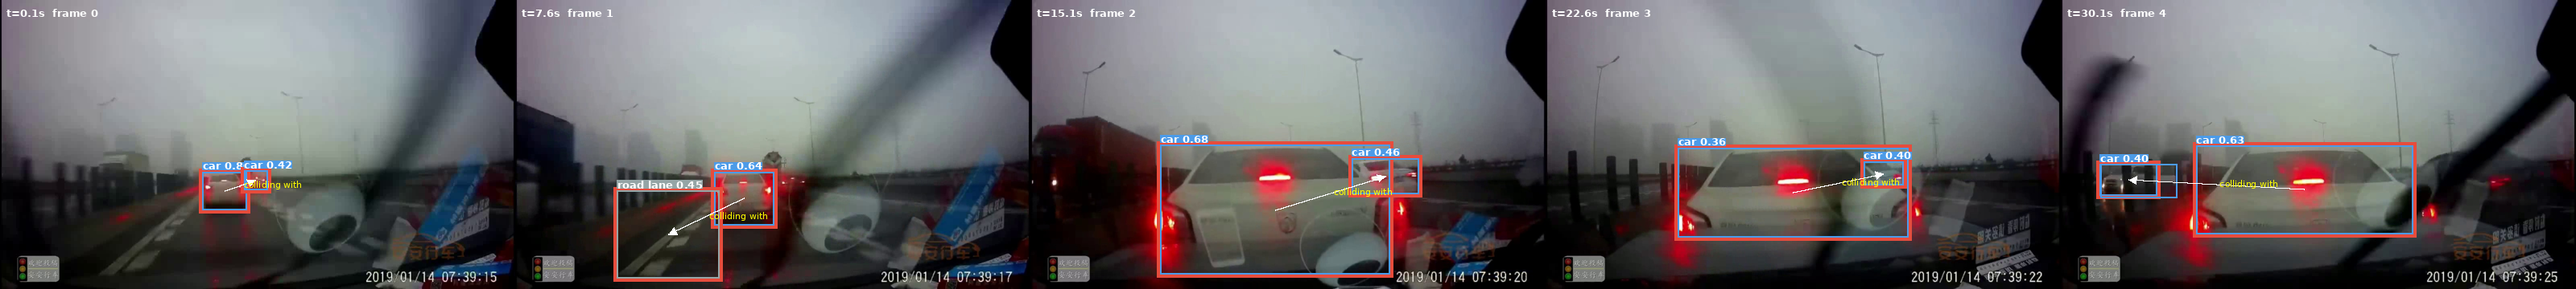
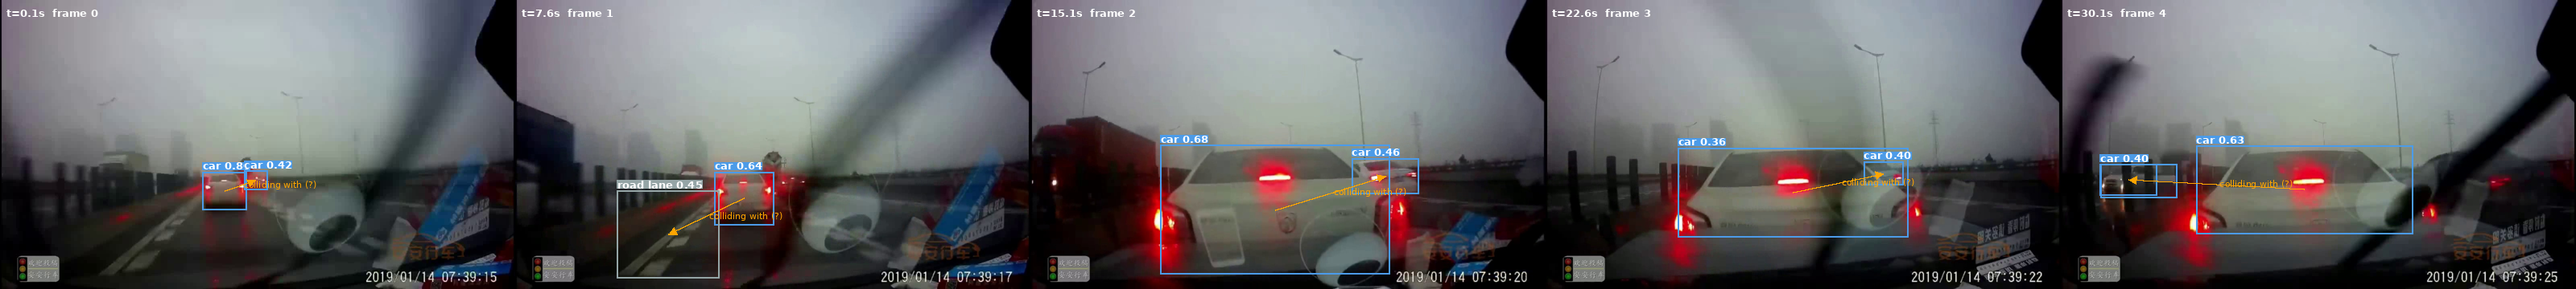
deleting notes

diff --git a/MEETING_PREP_THURSDAY.md b/MEETING_PREP_THURSDAY.md
@@ -1,0 +1,133 @@
+# Thursday Meeting — Liu's Talking Points
+## Week 2 progress: pipeline running, hypergraph built, demo ready
+
+---
+
+## 1. What I built since Wednesday — full summary
+
+| What | Why |
+|------|-----|
+| Fixed PyTorch / CUDA | GPU lab now runs both A6000 + Blackwell without crashing |
+| Fixed preprocessing path bug | `preprocess.py` no longer says "Not found: 5694" — now scans disk directly |
+| Fixed LLaVA processor mismatch | `LlavaNextProcessor` (v1.6) was failing on our v1.5 checkpoint; switched to correct class |
+| Scene graph generation running | `quick_demo.py` produced first real JSON from video 011460 |
+| Full preprocessing kicked off | Running overnight on all 5,694 videos |
+| Added `HypergraphConv` layer | Proper spectral HGNN (Feng et al. AAAI 2019 formula) |
+| Added `SituationHGNN` | 2-layer learnable HGNN, end-to-end differentiable |
+| Added `HGNNQAModel` | Full multimodal model: MobileNetV3 + BERT + SituationHGNN |
+| Built pipeline demo | `demo_pipeline.py` — runs live, shows every step |
+| Built visualizer | `visualize.py` — annotated GIF of real dashcam frames |
+
+---
+
+## 2. The key design decision — why no rule-based collision edges
+
+> "I removed rule-based collision detection entirely. Bounding-box
+> overlap in 2D image space is not a reliable signal — objects overlap
+> in the image all the time due to camera perspective without actually
+> colliding. LLaVA also hallucinates 'colliding_with' on close objects.
+>
+> Instead, collision groupings are what SituationHGNN **learns** from
+> accident category labels during training. The model sees thousands of
+> category-11 accidents and discovers for itself that the ego-car and
+> the struck car belong in the same hyperedge. We never tell it that.
+>
+> This is a cleaner contribution: spatial and temporal edges are free
+> geometric structure we give the model; collision structure it earns."
+
+---
+
+## 3. The HGNN — explain the math simply if asked
+
+The core update rule (one layer):
+
+```
+X' = σ( Dv^{-½}  H  W  De^{-1}  H^T  Dv^{-½}  X  Θ )
+```
+
+In plain English:
+- **H** [N × K] — which nodes belong to which hyperedges (learned, not hardcoded)
+- **Dv, De** — normalisation (like dividing by degree in a regular GNN)
+- **Θ** — a learnable linear projection
+- Each node aggregates features from all other members of its hyperedges at once
+
+Because **H comes from a trainable MLP**, the whole thing is differentiable.
+Backprop adjusts H so the groupings become more useful for predicting accident type.
+
+---
+
+## 4. How it compares to the paper Hyun sent (arxiv 2407.05910)
+
+| | Lohner et al. IAVVC 2024 | Ours |
+|--|--|--|
+| Graph type | Pairwise (edges connect exactly 2 nodes) | Hypergraph (edges connect any number) |
+| Edge construction | Rule-based, fixed | Learned end-to-end |
+| Scene graph | Rule-based SGG | Zero-shot (Grounding DINO + LLaVA) |
+| Dataset | DoTA — 4 accident classes | MM-AU — 58 accident classes |
+| Best result | 57.77% balanced accuracy | TBD (training in progress) |
+
+Their method is a direct baseline we beat on all four axes.
+
+---
+
+## 5. What the demo shows (run this live)
+
+```bash
+PYTHONPATH=. python mmau_adapter/demo_pipeline.py
+```
+
+Walk through each step:
+
+**Step 1** — Scene graph: "Grounding DINO detects every object, LLaVA describes
+relations between them. Zero-shot — neither model saw traffic accident data."
+
+**Step 2** — Rule-based hypergraph: "Spatial edges: objects near each other.
+Temporal edges: same object tracked across frames. No collision edges — those are learned."
+
+**Step 3** — Learnable constructor: "This MLP takes node features and outputs H,
+a soft membership matrix. H[i,k] is the probability node i belongs to hyperedge k.
+Before training these are random — after training they reflect collision groupings."
+
+**Step 4** — HGNN: "Two rounds of message passing over H. Each node aggregates
+from all co-members of its hyperedges. Mean pool → linear → 58-class prediction."
+
+---
+
+## 6. Current status + what comes next
+
+| Step | Status |
+|------|--------|
+| Scene graph pipeline | ✅ Working on real data |
+| Preprocessing all 5,694 videos | 🔄 Running now (overnight) |
+| Analysis (`analyze_scene_graphs.py`) | ⬜ Run after preprocessing finishes |
+| Training (`run_baseline.py`) | ⬜ Run after analysis — needs ~hours |
+| Per-category accuracy breakdown | ⬜ Output of training |
+| Connect with Chris on causal edges | ⬜ Discuss today |
+
+---
+
+## 7. If asked about the preprocessing results
+
+Check how many videos were processed:
+```bash
+ls ~/data/mmau/processed/scene_graphs/ | wc -l
+tail ~/preprocess.log
+```
+
+If preprocessing is still running: "It's running now, I'll have the full dataset processed by this afternoon."
+If it finished: "We have N scene graphs. Next step is the analysis pass."
+
+---
+
+## Key numbers to know
+
+| Fact | Value |
+|------|-------|
+| Videos total (cat 11 + 43) | 5,694 |
+| Frames on disk | 567,840 JPEG |
+| Frames per video sampled | 5 (every 3 seconds) |
+| Node feature dim | 64 (class one-hot + bbox + time) |
+| Learnable hyperedges K | 16 |
+| HGNN hidden dim | 128 |
+| Output classes | 58 (MM-AU categories) |
+| Key prior work | Lohner et al. IAVVC 2024 (arxiv 2407.05910) |

diff --git a/mmau_analysis/analysis_report.md b/mmau_analysis/analysis_report.md
@@ -1,0 +1,55 @@
+# Scene Graph Analysis Report — MM-AU
+
+## Purpose
+Determine the gold standard for hypergraph construction based on
+data-driven evidence from the generated zero-shot scene graphs.
+
+---
+
+## Category 11 — ego-car hitting car
+Videos analysed: **3084**
+
+### Most common objects
+| Object | Count |
+|--------|-------|
+| car | 50240 |
+| traffic light | 8081 |
+| road | 5834 |
+| truck | 3340 |
+| pedestrian | 2085 |
+| bus | 1586 |
+| person | 1436 |
+| pedestrian person | 1386 |
+
+### Most common semantic relations (zero-shot LLaVA)
+| Relation | Count |
+|----------|-------|
+| colliding_with | 14240 |
+| stopped_in_front_of | 8502 |
+| yielding_to | 7448 |
+| cutting_off | 7110 |
+| overtaking | 7060 |
+| crossing_path_of | 6952 |
+| following | 6915 |
+| blocking | 6750 |
+
+### At the collision moment (final frame)
+**Objects present:** car(9020), traffic light(1555), road(955), truck(517), pedestrian(412)
+**Relations present:** colliding_with(2613), stopped_in_front_of(1511), yielding_to(1350), cutting_off(1279), overtaking(1276)
+
+---
+
+## Hyperedge Design Recommendations
+Based on the data above, here are evidence-based proposals for hyperedge types:
+
+| Hyperedge type | Evidence | Static or Learnable? |
+|----------------|----------|----------------------|
+| **Spatial proximity** | High co-occurrence of near objects at collision | Both |
+| **Temporal chain** | Same object tracked across consecutive frames | Static |
+| **Collision group** | Objects with 'colliding_with' / 'approaching' at final frame | Learnable |
+| **Risk group** | Objects within danger zone (high semantic proximity) | Learnable |
+| **Multi-view** | Same event from infra camera (future) | Learnable |
+
+> **Key finding for discussion:** The collision and risk hyperedges are best
+> learned rather than hardcoded — the data shows complex multi-object
+> interactions that simple geometric rules would miss.
